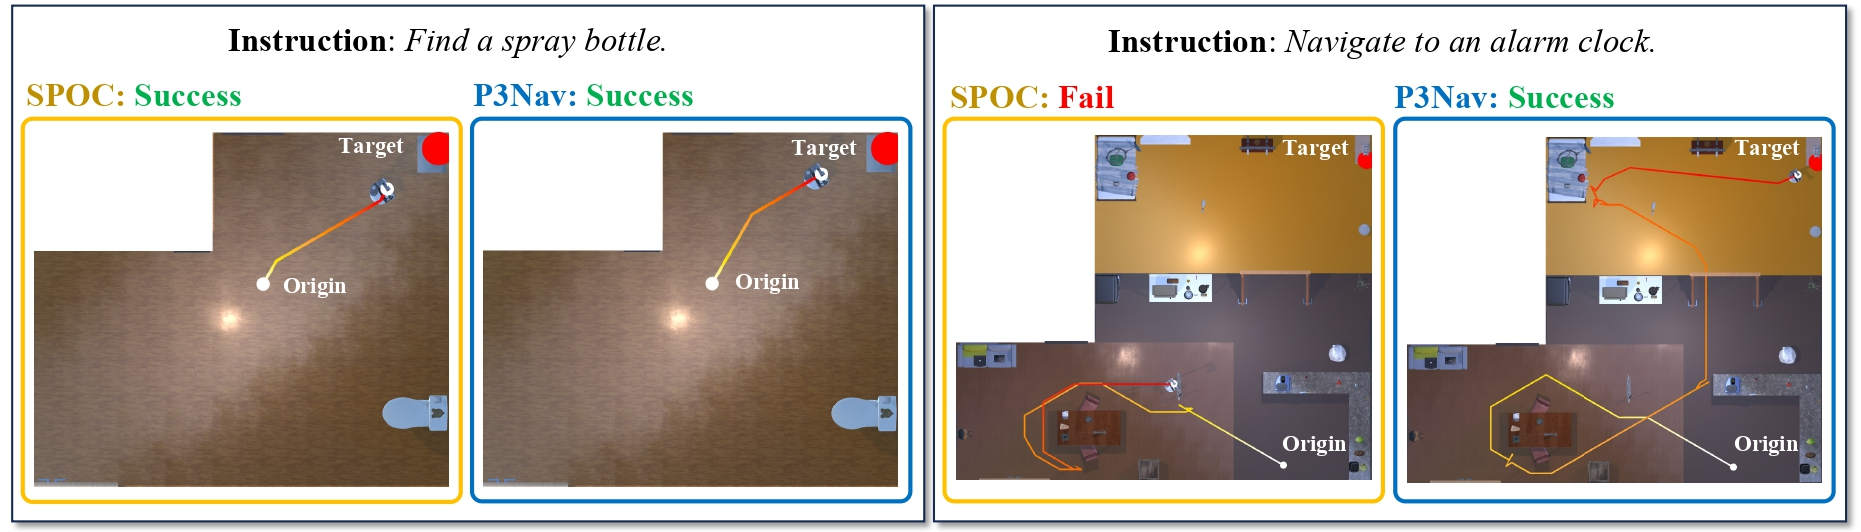
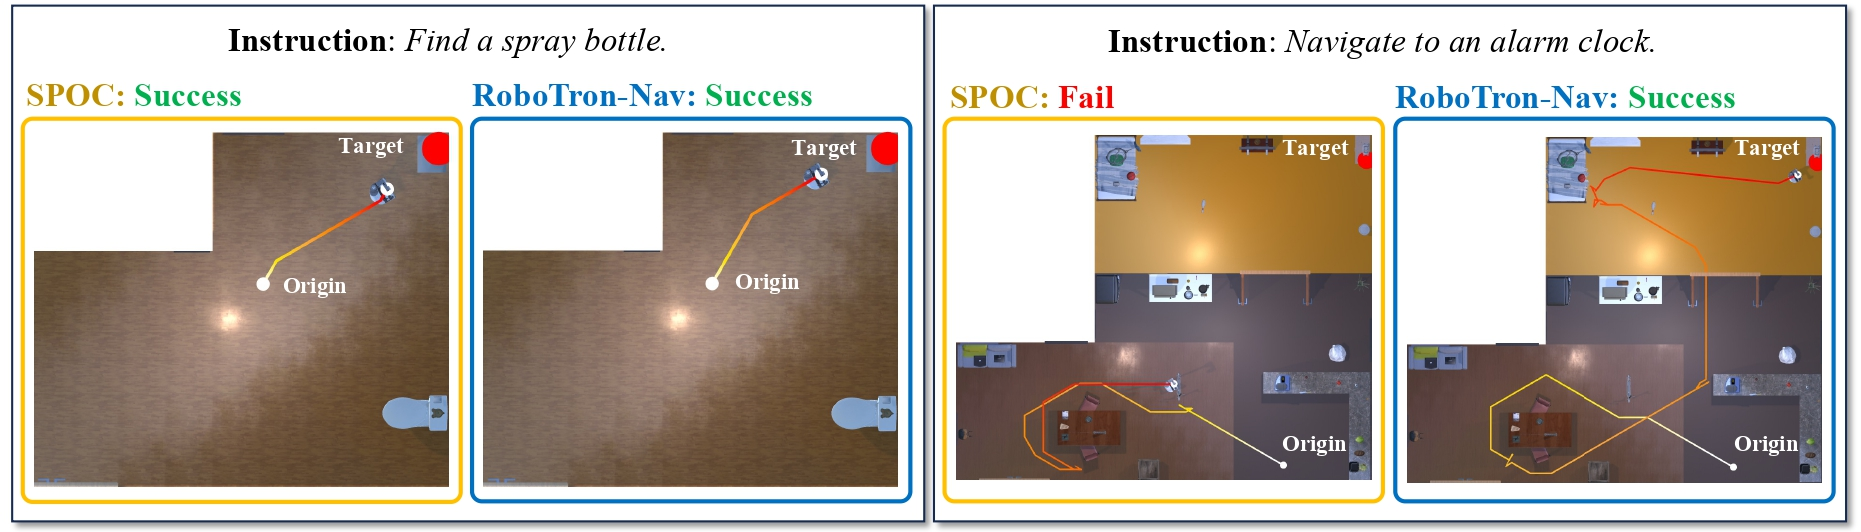
rename RoboTron-Nav

Changed region(s): [[0.748, 0.1504, 0.935, 0.2105], [0.2493, 0.1504, 0.4363, 0.2105]]

diff --git a/index.html b/index.html
@@ -24,7 +24,7 @@
   <meta name="viewport" content="width=device-width, initial-scale=1">
 
 
-  <title>P3Nav: A Unified Framework for Embodied Navigation Integrating Perception, Planning, and Prediction</title>
+  <title>RoboTron-Nav: A Unified Framework for Embodied Navigation Integrating Perception, Planning, and Prediction</title>
   <!-- <link rel="icon" type="image/x-icon" href="static/images/favicon.ico"> -->
   <link href="https://fonts.googleapis.com/css?family=Google+Sans|Noto+Sans|Castoro"
   rel="stylesheet">
@@ -52,7 +52,7 @@
       <div class="container is-max-desktop">
         <div class="columns is-centered">
           <div class="column has-text-centered">
-            <h1 class="title is-1 publication-title">P3Nav: A Unified Framework for Embodied Navigation Integrating Perception, Planning, and Prediction</h1>
+            <h1 class="title is-1 publication-title">RoboTron-Nav: A Unified Framework for Embodied Navigation Integrating Perception, Planning, and Prediction</h1>
             <div class="is-size-5 publication-authors">
               <!-- Paper authors -->
               <span class="author-block">
@@ -134,7 +134,7 @@
   <div class="container is-max-desktop">
     <div class="hero-body">
       <p>
-        <img src="static/images/motivation.jpg" alt="P3Nav's motivation" class="blend-img-background center-image" style="max-width: 100%; height: auto;">
+        <img src="static/images/motivation.jpg" alt="RoboTron-Nav's motivation" class="blend-img-background center-image" style="max-width: 100%; height: auto;">
       </p>
       <br>
       <p>
@@ -153,7 +153,7 @@
         <h2 class="title is-3">Abstract</h2>
         <div class="content has-text-justified">
           <p>
-            In language-guided visual navigation, agents locate target objects in unseen environments using natural language instructions. For reliable navigation in unfamiliar scenes, agents must possess strong perception, planning, and prediction capabilities. Additionally, when agents revisit previously explored areas during long-term navigation, they may retain irrelevant and redundant historical perceptions, leading to suboptimal results. In this work, we introduce P3Nav, a unified framework that integrates Perception, Planning, and Prediction capabilities through Multitask Collaboration on navigation and embodied question answering (EQA) tasks, thereby enhancing navigation performance. Furthermore, P3Nav employs an Adaptive 3D-aware History Sampling strategy to effectively and efficiently utilize historical observations. By leveraging the large language models (LLM), P3Nav comprehends diverse commands and complex visual scenes, resulting in appropriate navigation actions. P3Nav achieves a 75% success rate in object goal navigation on the CHORES-S benchmark, setting a new state-of-the-art performance.
+            In language-guided visual navigation, agents locate target objects in unseen environments using natural language instructions. For reliable navigation in unfamiliar scenes, agents must possess strong perception, planning, and prediction capabilities. Additionally, when agents revisit previously explored areas during long-term navigation, they may retain irrelevant and redundant historical perceptions, leading to suboptimal results. In this work, we introduce RoboTron-Nav, a unified framework that integrates Perception, Planning, and Prediction capabilities through Multitask Collaboration on navigation and embodied question answering (EQA) tasks, thereby enhancing navigation performance. Furthermore, RoboTron-Nav employs an Adaptive 3D-aware History Sampling strategy to effectively and efficiently utilize historical observations. By leveraging the large language models (LLM), RoboTron-Nav comprehends diverse commands and complex visual scenes, resulting in appropriate navigation actions. RoboTron-Nav achieves a 75% success rate in object goal navigation on the CHORES-S benchmark, setting a new state-of-the-art performance.
           </p>
         </div>
       </div>
@@ -170,10 +170,10 @@
         <div class="content">
           <h2 class="title is-3">Pipeline</h2>
          <p>
-              <img src="static/images/pipeline.jpg" alt="P3Nav's pipeline" class="blend-img-background center-image" style="max-width: 100%; height: auto;">
+              <img src="static/images/pipeline.jpg" alt="RoboTron-Nav's pipeline" class="blend-img-background center-image" style="max-width: 100%; height: auto;">
             </p>
             <p>
-              Overview of P3Nav architecture. The current frame I<sub>t</sub> is initially processed through 2D and 3D feature extraction using the visual encoder. Then, historical features are filtered through the Adaptive 3D-aware History Sampling strategy. The visual features obtained, along with the accompanying linguistic instructions, are then fed into the large language model (LLM). Leveraging the Multitask Collaboration strategy, which significantly enhances navigation capabilities through joint training on both navigation and EQA tasks, the LLM produces two outputs via multimodal fusion: executable navigation actions and natural language answers.
+              Overview of RoboTron-Nav architecture. The current frame I<sub>t</sub> is initially processed through 2D and 3D feature extraction using the visual encoder. Then, historical features are filtered through the Adaptive 3D-aware History Sampling strategy. The visual features obtained, along with the accompanying linguistic instructions, are then fed into the large language model (LLM). Leveraging the Multitask Collaboration strategy, which significantly enhances navigation capabilities through joint training on both navigation and EQA tasks, the LLM produces two outputs via multimodal fusion: executable navigation actions and natural language answers.
             </p>
         </div>
       </div>
@@ -189,10 +189,10 @@
         <div class="content">
           <h2 class="title is-3">Results</h2>
          <p>
-              <img src="static/images/results.jpg" alt="P3Nav's results" class="blend-img-background center-image" style="max-width: 100%; height: auto;">
+              <img src="static/images/results.jpg" alt="RoboTron-Nav's results" class="blend-img-background center-image" style="max-width: 100%; height: auto;">
             </p>
             <p>
-              Left: Both P3Nav and SPOC generate the shortest path when the agent is near the target (e.g., in the same room). Right: In contrast, SPOC fails due to repeatedly searching along the same paths when distant from the target (e.g., in different rooms), whereas P3Nav succeeds by effectively avoiding revisiting areas and exploring new ones.
+              Left: Both RoboTron-Nav and SPOC generate the shortest path when the agent is near the target (e.g., in the same room). Right: In contrast, SPOC fails due to repeatedly searching along the same paths when distant from the target (e.g., in different rooms), whereas RoboTron-Nav succeeds by effectively avoiding revisiting areas and exploring new ones.
             </p>
         </div>
       </div>
